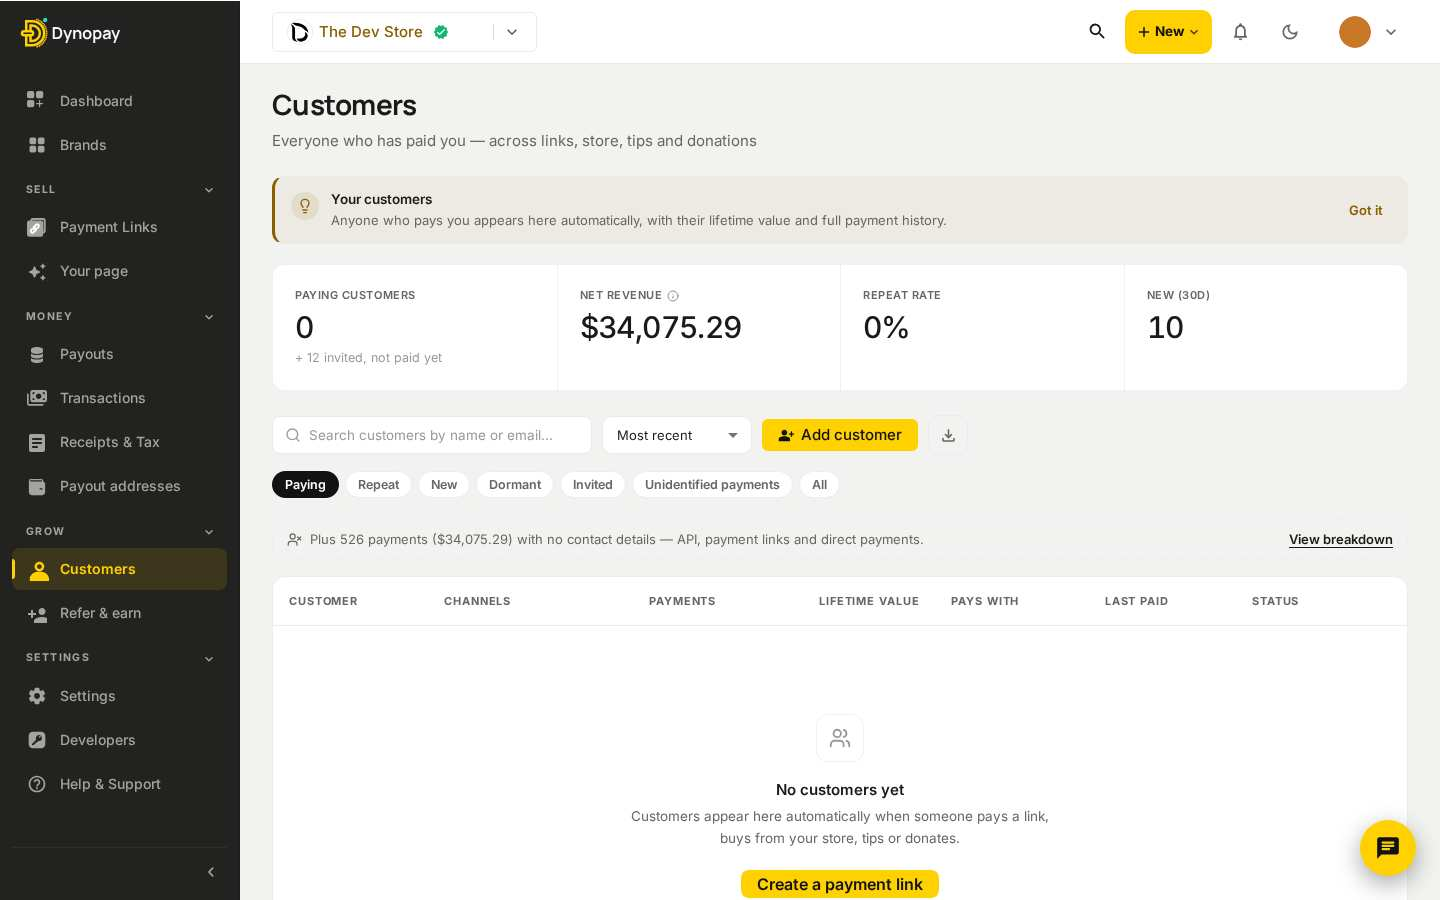
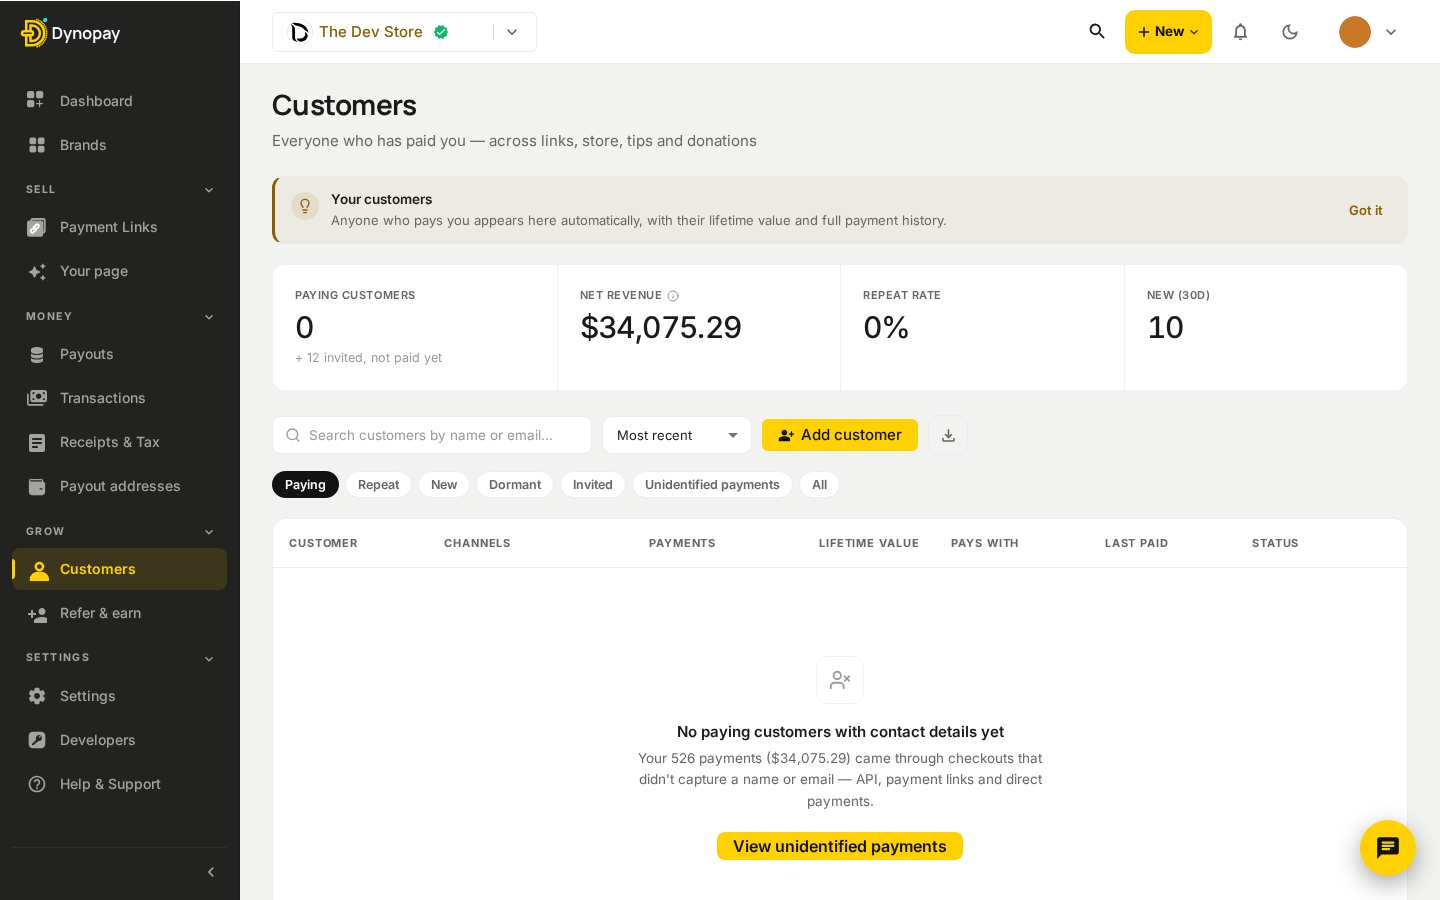
checkpoint before testing_agent_full_stack
Emergent-Commit-Key: bba318f82baff8185ed650a170d00092b768a6da3e57d1774b26845f6742febc

diff --git a/Components/Page/Customers/index.tsx b/Components/Page/Customers/index.tsx
@@ -42,6 +42,7 @@ import {
   DialogTitle,
   DialogContent,
   DialogActions,
+  useMediaQuery,
 } from "@mui/material";
 import useToast from "@/hooks/useToast";
 import PeopleAltRounded from "@mui/icons-material/PeopleAltRounded";
@@ -190,6 +191,7 @@ const CustomersPage: React.FC = () => {
   const theme = useTheme();
   const cardView = useTableCardView(); // < 768px → card list
   const isMobile = useIsMobile("md");
+  const isNarrow = useMediaQuery("(max-width:359.95px)");
   const isTablet = useIsMobile("lg"); // < 1200px → condensed table
   const { t } = useTranslation("common");
   const fx = useDisplayFx();
@@ -600,6 +602,10 @@ const CustomersPage: React.FC = () => {
           testid: "customers-search-input",
         }}
       >
+        <Box
+          data-testid="customers-toolbar-controls"
+          sx={{ display: "flex", alignItems: "center", gap: 1.25, flexWrap: "nowrap", minWidth: 0, flex: { xs: "1 1 100%", sm: "0 0 auto" } }}
+        >
         <Select
           value={sort}
           size="small"
@@ -616,6 +622,7 @@ const CustomersPage: React.FC = () => {
             fontSize: "13px",
             minWidth: { xs: 0, sm: 150 },
             flex: { xs: "1 1 0", sm: "0 0 auto" },
+            "& .MuiSelect-select": { overflow: "hidden", textOverflow: "ellipsis", whiteSpace: "nowrap" },
             "& fieldset": { borderColor: cardBorder },
           }}
         >
@@ -637,6 +644,8 @@ const CustomersPage: React.FC = () => {
           variant="primary"
           size="small"
           startIcon={<PersonAddAltRounded sx={{ fontSize: 17 }} />}
+          hideLabel={isNarrow}
+          sx={{ flexShrink: 0, ...(isNarrow ? { minWidth: 44, px: 1.25 } : {}) }}
           onClick={() => setAddOpen(true)}
           data-testid="customers-add-btn"
         />
@@ -663,6 +672,7 @@ const CustomersPage: React.FC = () => {
             </IconButton>
           </span>
         </Tooltip>
+        </Box>
       </ConsoleFilterBar>
 
       {/* Segment chips — horizontally scrollable on small screens */}

diff --git a/Components/Console/SummaryStrip.tsx b/Components/Console/SummaryStrip.tsx
@@ -27,7 +27,7 @@ const SummaryStrip: React.FC<SummaryStripProps> = ({ items, testid = "summary-st
       data-testid={testid}
       sx={{
         display: "grid",
-        gridTemplateColumns: { xs: "1fr 1fr", sm: `repeat(${Math.min(items.length, 4)}, 1fr)` },
+        gridTemplateColumns: { xs: "repeat(2, minmax(0, 1fr))", sm: `repeat(${Math.min(items.length, 4)}, minmax(0, 1fr))` },
         border: `1px solid ${t.hairline}`,
         borderRadius: "12px",
         bgcolor: t.surface,
@@ -37,12 +37,16 @@ const SummaryStrip: React.FC<SummaryStripProps> = ({ items, testid = "summary-st
     >
       {items.map((it, i) => {
         const toneColor = it.tone ? (t.isDark ? STATUS_PALETTE[it.tone].dark : STATUS_PALETTE[it.tone].light) : t.ink;
+        // Shrink long figures to fit their tile (≈0.56em per tabular glyph).
+        const em = (typeof it.value === "string" || typeof it.value === "number" ? String(it.value).length : 6) * 0.56;
         return (
           <Box
             key={it.testid || i}
             data-testid={it.testid || `summary-tile-${i}`}
             sx={{
-              p: { xs: 2, sm: 2.75 },
+              p: { xs: 1.75, sm: 2.75 },
+              minWidth: 0,
+              containerType: "inline-size",
               borderLeft: i > 0 ? { sm: `1px solid ${t.hairline}` } : "none",
               borderTop: { xs: i >= 2 ? `1px solid ${t.hairline}` : "none", sm: "none" },
             }}
@@ -62,10 +66,11 @@ const SummaryStrip: React.FC<SummaryStripProps> = ({ items, testid = "summary-st
             </Typography>
             <Typography
               sx={{
-                fontSize: { xs: 24, sm: 30 },
+                fontSize: { xs: `min(24px, calc(100cqi / ${em.toFixed(2)}))`, sm: `min(30px, calc(100cqi / ${em.toFixed(2)}))` },
                 fontWeight: 500,
                 lineHeight: 1.1,
                 letterSpacing: "-0.02em",
+                whiteSpace: "nowrap",
                 color: toneColor,
                 ...NUM_SX,
               }}

diff --git a/backend/controller/customerDirectoryService.ts b/backend/controller/customerDirectoryService.ts
@@ -447,6 +447,11 @@ export const buildDirectory = async (
   };
 
   const personList = Array.from(persons.values()).map(finalize);
+  const now = Date.now();
+  // "New (30d)" = people whose FIRST settled payment landed in the window (invited-only don't count).
+  const newThisMonth = Array.from(persons.values()).filter(
+    (p) => p.payments_count > 0 && p.first_paid && now - new Date(p.first_paid).getTime() <= NEW_WINDOW_DAYS * DAY_MS
+  ).length;
   // Anonymous buckets with nothing actionable (no settled payments, no fresh
   // pending) are pure noise — e.g. a "Direct" bucket of long-expired attempts.
   const anonList = Array.from(anon.values())
@@ -455,10 +460,6 @@ export const buildDirectory = async (
 
   const paidPersons = personList.filter((p) => p.payments_count > 0);
   const repeatPersons = paidPersons.filter((p) => p.payments_count >= 2);
-  const now = Date.now();
-  const newThisMonth = personList.filter(
-    (p) => p.first_seen && now - new Date(p.first_seen).getTime() <= NEW_WINDOW_DAYS * DAY_MS
-  ).length;
   const identifiedRevenue = sum(personList.map((p) => p.ltv_usd)).toNumber();
   const anonRevenue = sum(anonList.map((p) => p.ltv_usd)).toNumber();
 

diff --git a/hooks/useDisplayFx.ts b/hooks/useDisplayFx.ts
@@ -51,7 +51,6 @@ export function useDisplayFx() {
       };
     },
     revalidateOnFocus: false,
-    shouldRetryOnError: false,
   });
 
   // Ready once we have data OR the call failed (fail-safe → USD @ 1).

diff --git a/memory/CHANGELOG.md b/memory/CHANGELOG.md
@@ -2210,3 +2210,13 @@ User approved scope (a): ALL customer-facing UI (auth, checkout, landing, chrome
 ## 2026-10-02 — Onboarding: Save & exit = sign out + resume; brand-welcome + email-codes emails
 - Save & exit setup → confirm dialog → sign out → /auth/login?next=/get-started; any login of a single-brand owner still "setting up" resumes the wizard (FirstRunRedirect gates on brandPhase). "Do this later" unchanged (hero + 24h snooze). Fee-free modal/banner race on first login fixed (wait for coreReady). Dashboard shows neutral skeleton until coreReady.
 - Backend: first brand-details save → delayed (10 min, BullMQ) "Welcome aboard — {Brand} is set up" email instead of "brand details were changed"; email-code 2FA enrolment → "Email codes are now your sign-in second step" email. Locales ×6. testing_agent iteration_250 10/10.
+
+## 2026-10-05 — In-app UX overhaul (all 5 workstreams) + tidy-up
+- Transactions top bar/filters decluttered; Customers default to PAYING customers (invited = prospect, unidentified API payments = anonymous, shown separately); gross/net/settled labels + InfoHint tooltips on Dashboard/Invoices/Wallet/Customers; empty VAT column hidden on Invoices.
+- PageTip dismissals now server-side per account (backend/routes/trackRouter.ts, Components/UX/PageTip).
+- "Storefront" → "Your page" everywhere; editor split into collapsible EditorSection blocks with visible save bar; Products table toolbar + ProductRowMenu (⋯).
+- Developer keys → compact ApiKeysTable (env, key, last used, created, ⋯). Referrals → ReferralLinkHero + single ReferralZeroState + ReferralEarningsCard.
+- Notifications kind filter uses shared dark pill; read-only inputs softened. Verified by testing_agent iteration_266 (10/10 areas, 0 overflow at 1440/1280/390).
+- Tidy-up: Customers mobile toolbar = search row + one non-wrapping controls row (customers-toolbar-controls).
+- 429 RCA: NOT the app — Cloudflare edge bot challenge ("Just a moment…", server: cloudflare) on the preview domain when headless Chromium bursts ~1.3k requests; zero 429s in backend/nginx logs; 380 direct curl calls all 200. useDisplayFx now uses global SWR retry (2) so a transient failure no longer pins USD for the session.
+- Lint: Next 15 build lint picked eslint.config.mjs (platform stub) with ESLint 8 → "Unknown options: useEslintrc, extensions", so the build-time gate never ran. Set eslint.ignoreDuringBuilds=true; added `yarn lint:eslint` (legacy .eslintrc, errors only, currently clean) as a CI preflight step.

diff --git a/memory/PRD.md b/memory/PRD.md
@@ -373,7 +373,7 @@
 # === 2026-10-01 (fork) — FRESH POD SETUP from env.vault.enc — DONE (no code changes) ===
 # Ran `bash scripts/pod-bootstrap.sh --pass '<vault pass>'` → .env.local (187 lines) + backend/.env (199 lines) restored, URLs synced to this pod, SAFE MODE (ENABLE_BACKGROUND_JOBS=false, WORKER_ROLE=secondary, DISABLE_OUTBOUND_EMAIL=true).
 # Pod restarted mid-install (fresh /tmp, bootstrap killed) → services self-healed; re-ran with --no-restart → ✅ POD READY. Backend /health: db+redis connected, tatum operational, background_jobs eligible=false. Frontend: next build (FRONTEND_MODE=production, distDir=.next-prod) → 200 on :3000 + external.
-# Known/benign: Binance WS geo-blocked (CoinGecko fallback); next build prints ESLint "Invalid Options (useEslintrc, extensions)" — pre-existing, non-blocking.
+# Known/benign: Binance WS geo-blocked (CoinGecko fallback). ESLint "Invalid Options (useEslintrc, extensions)" build noise FIXED 2026-10-05 (build lint off; CI `yarn lint:eslint` gate).
 # ============================================================================================
 
 
